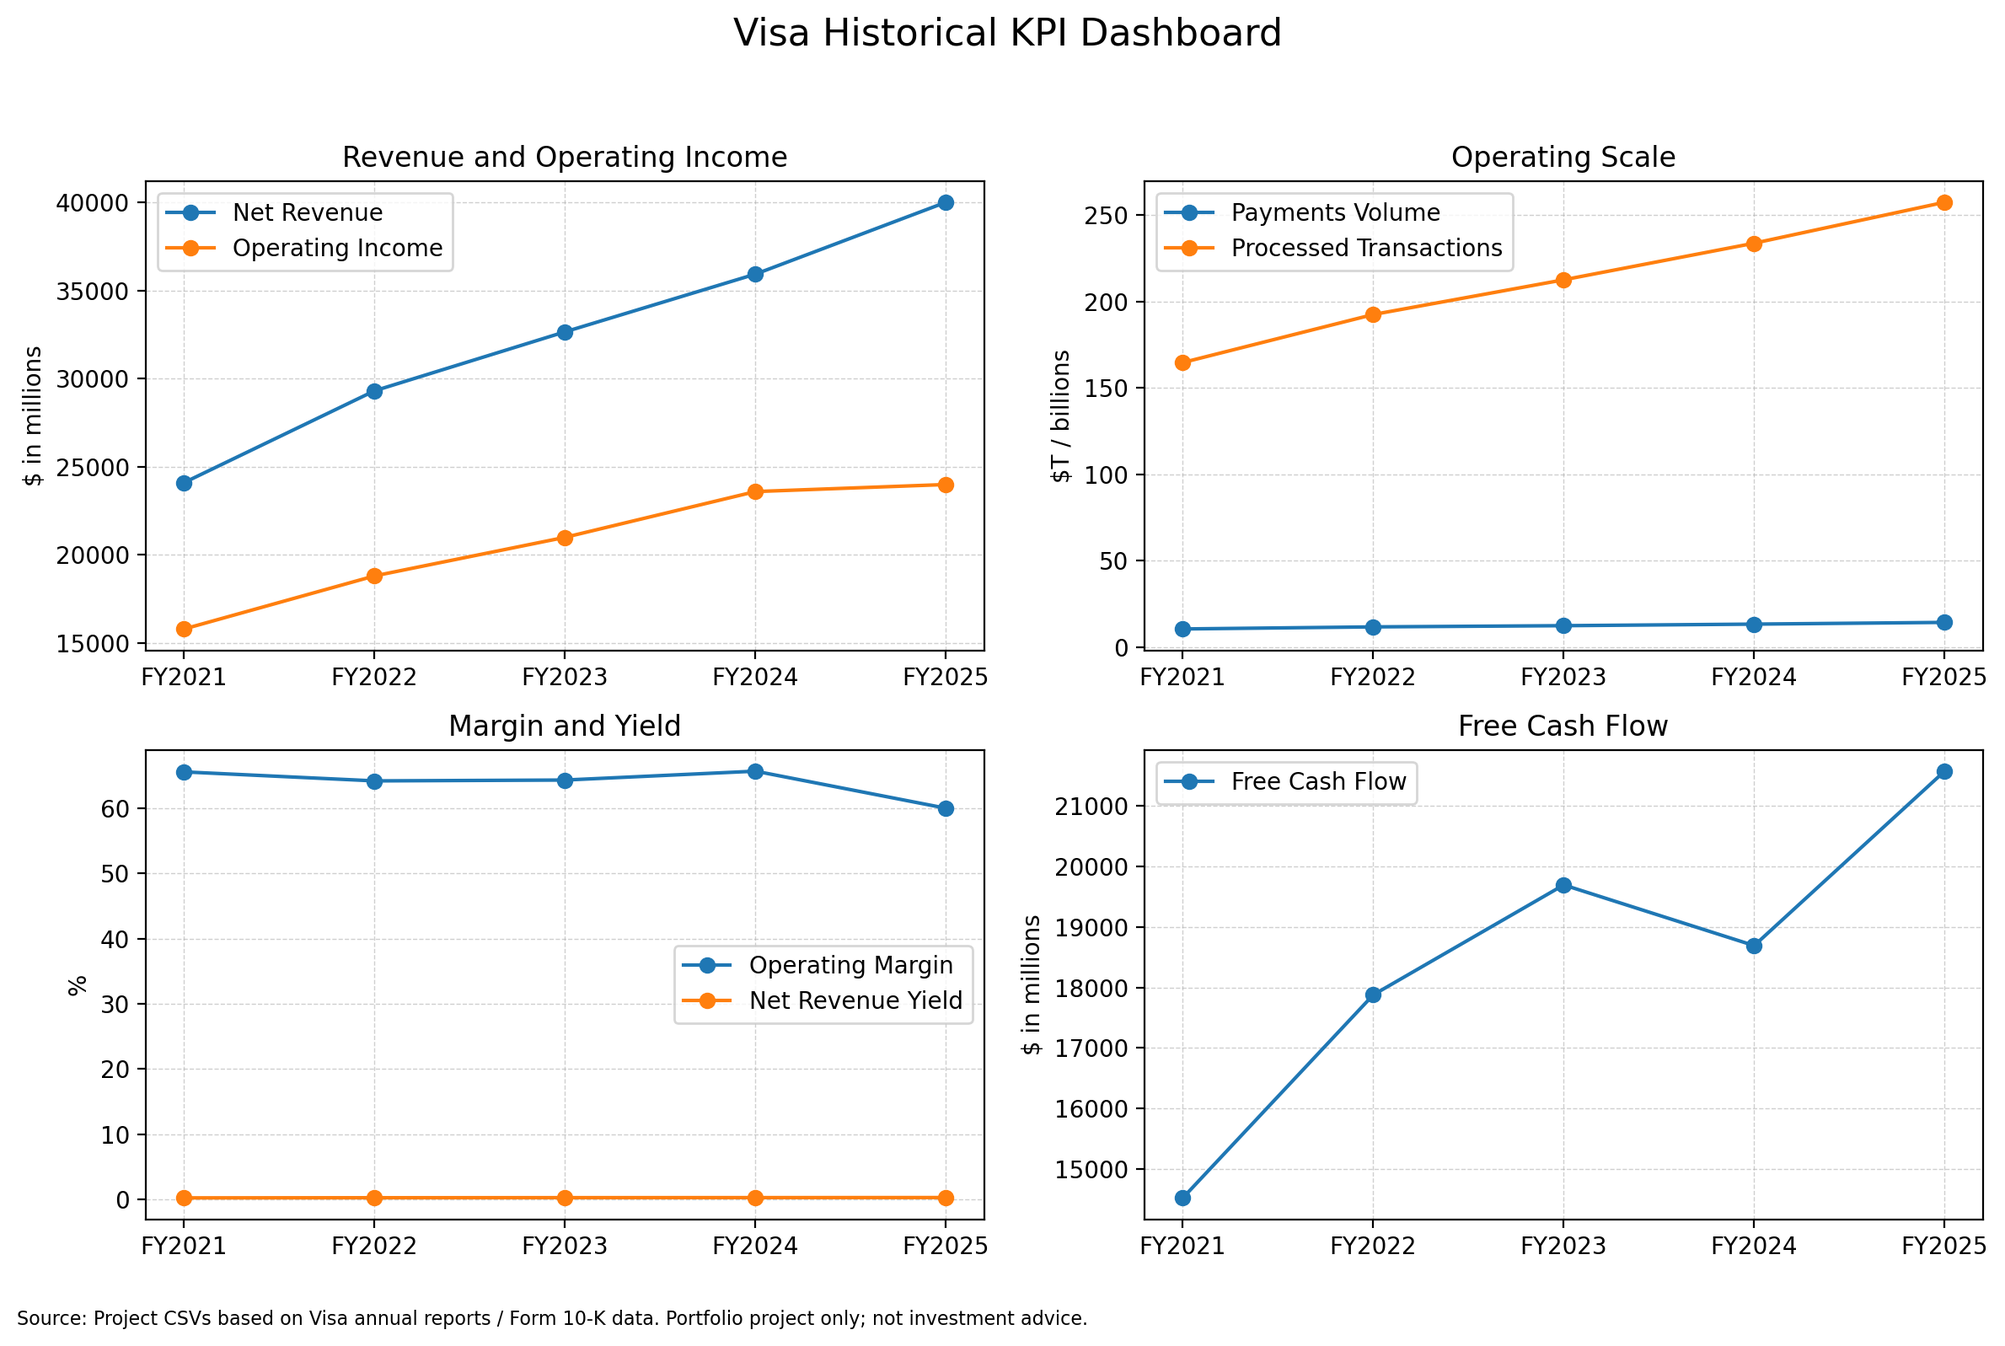
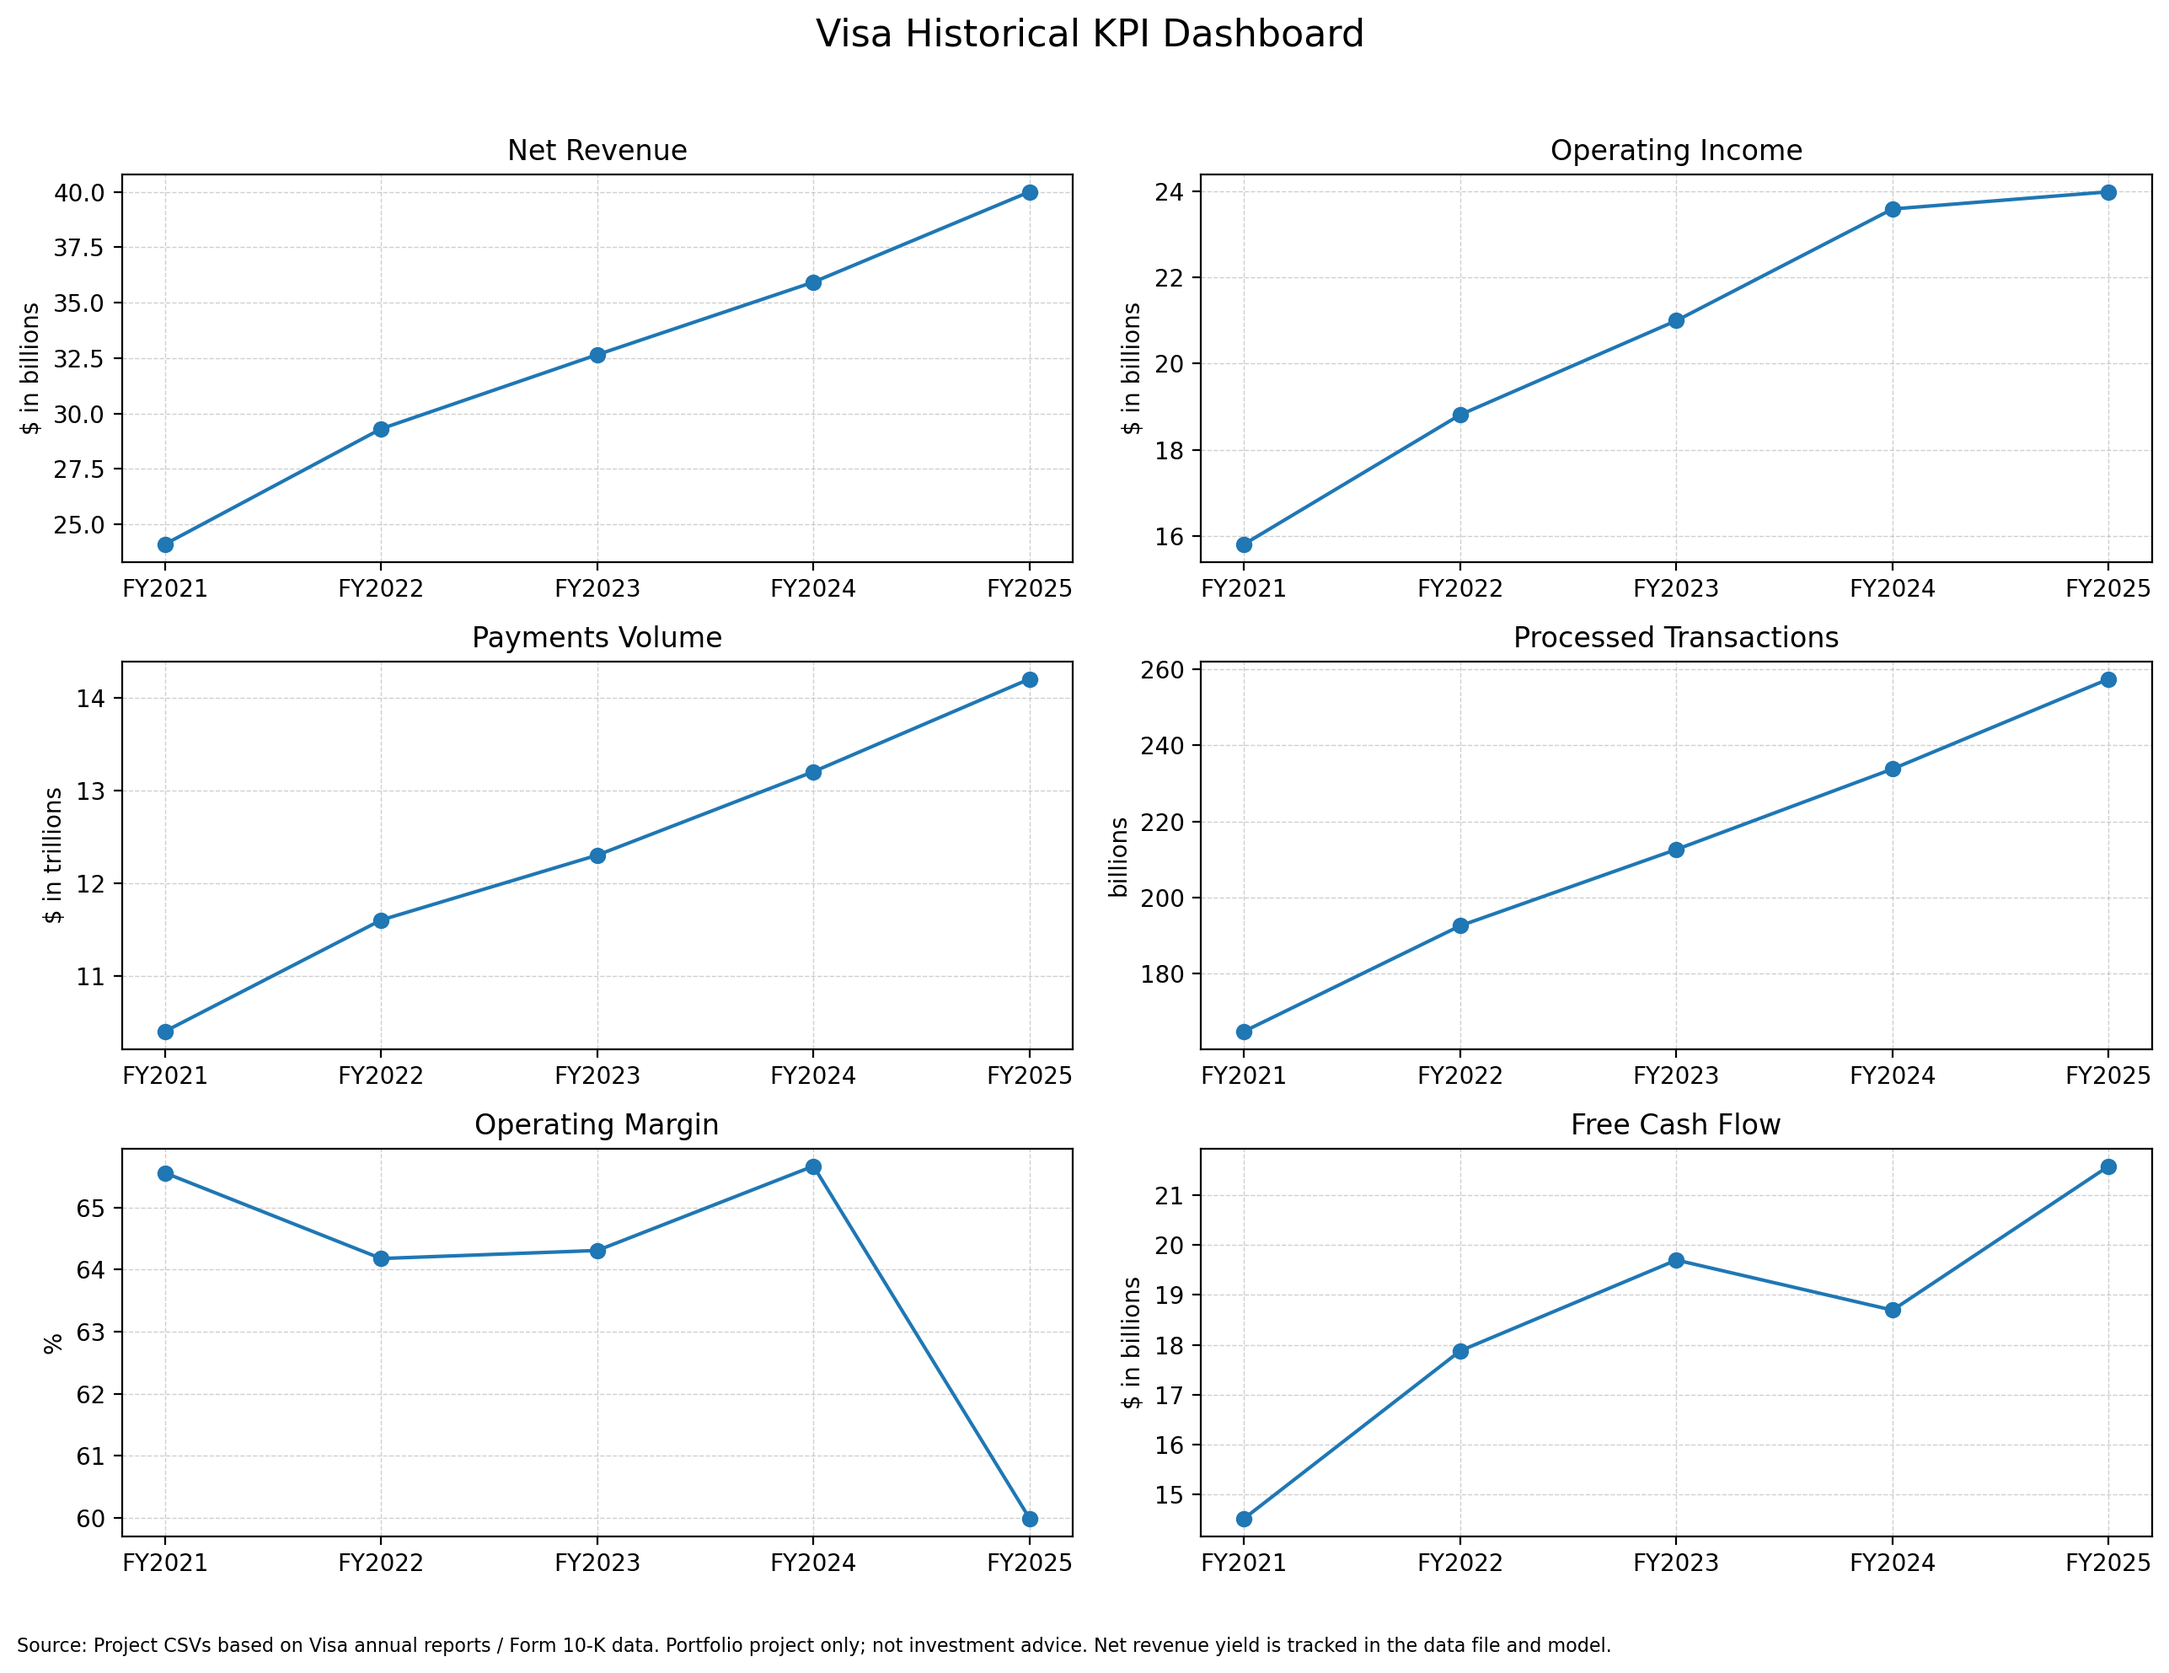
Finalize KPI dashboard visual scaling

diff --git a/scripts/create_kpi_dashboard_visual.py b/scripts/create_kpi_dashboard_visual.py
@@ -34,7 +34,6 @@ operating_margin = [parse_number(row["Operating Margin"]) for row in financials]
 
 payments_volume_t = [parse_number(row["Payments Volume ($T)"]) for row in kpis]
 processed_transactions_b = [parse_number(row["Processed Transactions (B)"]) for row in kpis]
-credentials_b = [parse_number(row["Payment Credentials (B)") if False else "Payment Credentials (B)"]) for row in kpis]
 net_revenue_yield = [parse_number(row["Net Revenue Yield"]) for row in kpis]
 
 with SUMMARY_PATH.open("w", newline="", encoding="utf-8") as f:
@@ -46,67 +45,34 @@ with SUMMARY_PATH.open("w", newline="", encoding="utf-8") as f:
     writer.writerow(["Operating Margin (%)", *operating_margin])
     writer.writerow(["Payments Volume ($T)", *payments_volume_t])
     writer.writerow(["Processed Transactions (B)", *processed_transactions_b])
-    writer.writerow(["Payment Credentials (B)", *credentials_b])
     writer.writerow(["Net Revenue Yield (%)", *net_revenue_yield])
 
-fig, axes = plt.subplots(2, 2, figsize=(13, 8.5))
+fig, axes = plt.subplots(3, 2, figsize=(13, 10))
 
-# Revenue and operating income
-axes[0, 0].plot(years, net_revenue_b, marker="o", label="Net Revenue")
-axes[0, 0].plot(years, operating_income_b, marker="o", label="Operating Income")
-axes[0, 0].set_title("Revenue and Operating Income")
-axes[0, 0].set_ylabel("$ in billions")
-axes[0, 0].legend()
-axes[0, 0].grid(True, linestyle="--", linewidth=0.5, alpha=0.6)
+charts = [
+    (axes[0, 0], net_revenue_b, "Net Revenue", "$ in billions"),
+    (axes[0, 1], operating_income_b, "Operating Income", "$ in billions"),
+    (axes[1, 0], payments_volume_t, "Payments Volume", "$ in trillions"),
+    (axes[1, 1], processed_transactions_b, "Processed Transactions", "billions"),
+    (axes[2, 0], operating_margin, "Operating Margin", "%"),
+    (axes[2, 1], free_cash_flow_b, "Free Cash Flow", "$ in billions"),
+]
 
-# Operating scale with dual axis
-ax1 = axes[0, 1]
-ax2 = ax1.twinx()
-
-line1 = ax1.plot(years, payments_volume_t, marker="o", label="Payments Volume")
-line2 = ax2.plot(years, processed_transactions_b, marker="o", label="Processed Transactions")
-
-ax1.set_title("Operating Scale")
-ax1.set_ylabel("Payments Volume ($T)")
-ax2.set_ylabel("Processed Transactions (B)")
-ax1.grid(True, linestyle="--", linewidth=0.5, alpha=0.6)
-
-lines = line1 + line2
-labels = [line.get_label() for line in lines]
-ax1.legend(lines, labels, loc="upper left")
-
-# Margin and yield with dual axis
-ax3 = axes[1, 0]
-ax4 = ax3.twinx()
-
-line3 = ax3.plot(years, operating_margin, marker="o", label="Operating Margin")
-line4 = ax4.plot(years, net_revenue_yield, marker="o", label="Net Revenue Yield")
-
-ax3.set_title("Margin and Revenue Yield")
-ax3.set_ylabel("Operating Margin (%)")
-ax4.set_ylabel("Net Revenue Yield (%)")
-ax3.grid(True, linestyle="--", linewidth=0.5, alpha=0.6)
-
-lines = line3 + line4
-labels = [line.get_label() for line in lines]
-ax3.legend(lines, labels, loc="upper left")
-
-# Free cash flow
-axes[1, 1].plot(years, free_cash_flow_b, marker="o", label="Free Cash Flow")
-axes[1, 1].set_title("Free Cash Flow")
-axes[1, 1].set_ylabel("$ in billions")
-axes[1, 1].legend()
-axes[1, 1].grid(True, linestyle="--", linewidth=0.5, alpha=0.6)
+for ax, values, title, ylabel in charts:
+    ax.plot(years, values, marker="o")
+    ax.set_title(title)
+    ax.set_ylabel(ylabel)
+    ax.grid(True, linestyle="--", linewidth=0.5, alpha=0.6)
 
 fig.suptitle("Visa Historical KPI Dashboard", fontsize=16)
 
 footnote = (
     "Source: Project CSVs based on Visa annual reports / Form 10-K data. "
-    "Portfolio project only; not investment advice."
+    "Portfolio project only; not investment advice. Net revenue yield is tracked in the data file and model."
 )
 fig.text(0.01, 0.01, footnote, fontsize=8)
 
-plt.tight_layout(rect=[0, 0.04, 1, 0.95])
+plt.tight_layout(rect=[0, 0.04, 1, 0.96])
 plt.savefig(OUT_PATH, dpi=200, bbox_inches="tight")
 plt.close()
 
